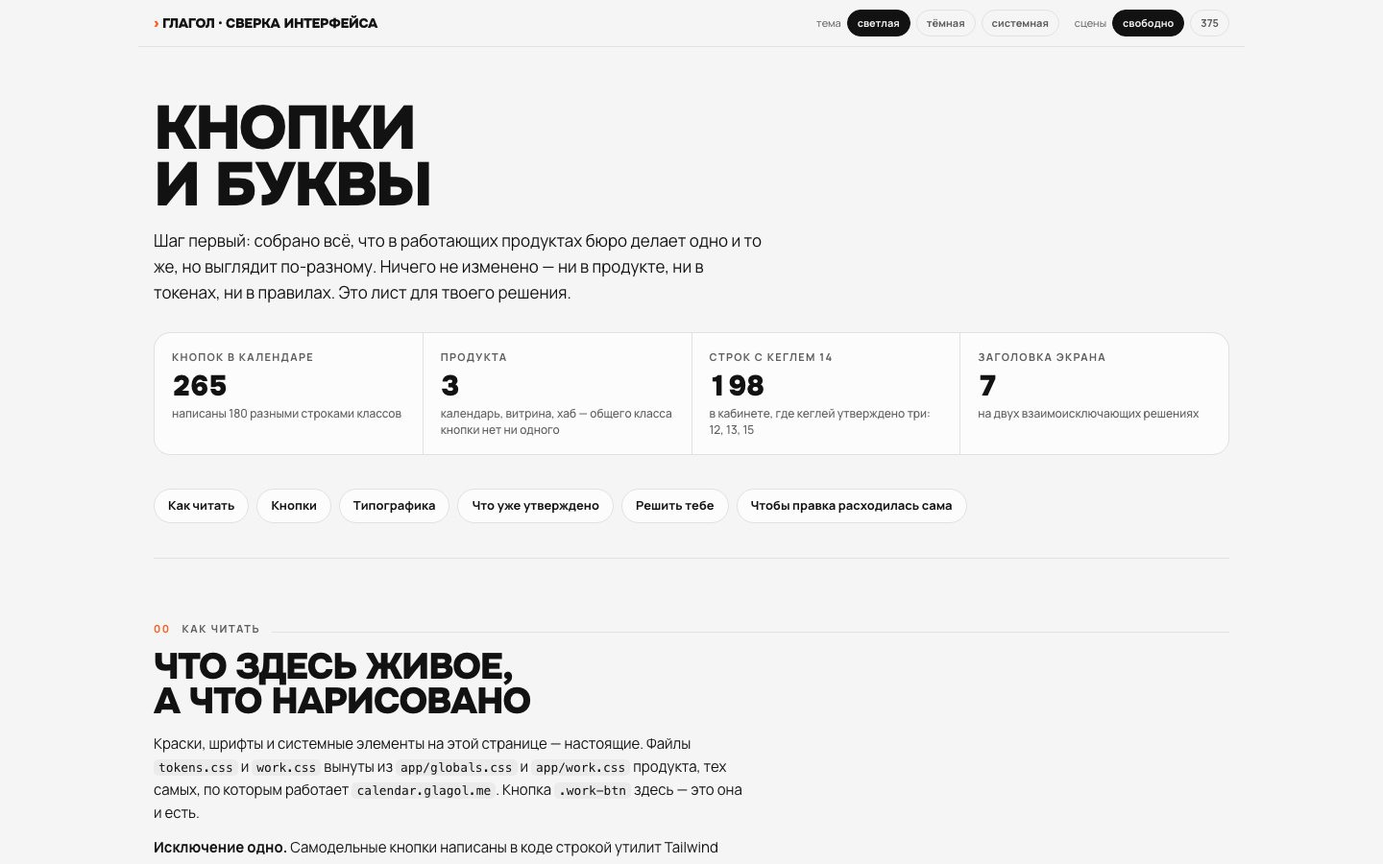
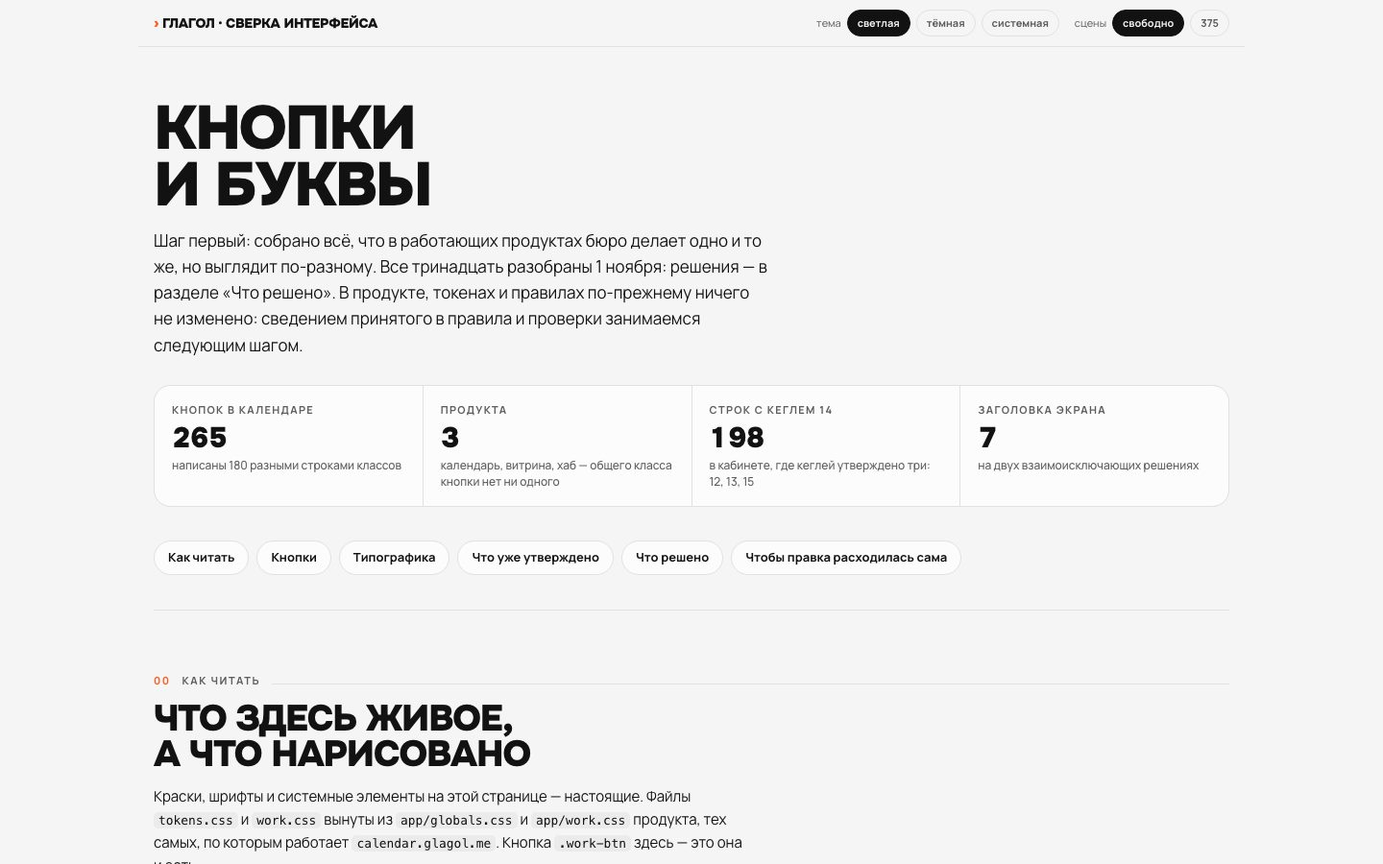
Сверка: решения сведены в раздел «Что решено»
Все тринадцать расхождений закрыты за один день. Метки на карточках
сменились на «решено», раздел «Решить тебе» заменён таблицей решений с
ценой каждого, оглавление и лид поправлены.

Отдельными врезками то, что нашлось по ходу и важнее части решений: поле
ввода меньше 16 зумит айфон (32 таких поля в календаре), и два случая,
когда витрина показала то, чего в продукте нет.

В проверках съёмки ссылка внутри абзаца выведена из правила 44 — нарастить
её можно только разогнав строки текста, и то же говорит WCAG 2.5.8.
Исключение именно для ссылки в абзаце: кнопка в абзаце исключением не
станет.

diff --git a/review/index.html b/review/index.html
@@ -27,8 +27,9 @@
 <header class="св-шапка">
   <h1>Кнопки<br>и буквы</h1>
   <p class="лид">Шаг первый: собрано всё, что в работающих продуктах бюро делает
-    одно и то же, но выглядит по-разному. Ничего не изменено — ни в продукте,
-    ни в токенах, ни в правилах. Это лист для твоего решения.</p>
+    одно и то же, но выглядит по-разному. Все тринадцать разобраны 1 ноября: решения — в разделе «Что решено».
+    В продукте, токенах и правилах по-прежнему ничего не изменено: сведением
+    принятого в правила и проверки занимаемся следующим шагом.</p>
 
   <dl class="счёт">
     <div>
@@ -58,7 +59,7 @@
     <a href="#кнопки">Кнопки</a>
     <a href="#типографика">Типографика</a>
     <a href="#утверждено">Что уже утверждено</a>
-    <a href="#вопросы">Решить тебе</a>
+    <a href="#решения">Что решено</a>
     <a href="#архитектура">Чтобы правка расходилась сама</a>
   </nav>
 </header>
@@ -82,13 +83,19 @@
     <code>font-semibold</code>&nbsp;→&nbsp;600. Токены те же. Под каждым таким
     образцом стоит ссылка на файл и строку — проверяется глазами за минуту.</p>
 
-  <p>У карточки четыре вида метки. <span class="метка" data-м="утверждено">утверждено</span>
+  <p><b>Все тринадцать расхождений разобраны 1 ноября 2026 года.</b> Карточки
+    ниже показывают, что нашлось в коде; принятое решение по каждой стоит в
+    разделе <a href="#решения">«Что решено»</a> и подробно, с причинами, — в
+    <code>review/РЕШЕНИЯ.md</code>. Метка <span class="метка" data-м="решено">решено</span>
+    на карточке означает, что ответ есть.</p>
+
+  <p>Виды меток, которые стояли до разбора. <span class="метка" data-м="утверждено">утверждено</span>
     — решение принято раньше, с причиной; трогать нечего.
-    <span class="метка" data-м="предлагаю">предлагаю</span> — расхождение
+    <span class="метка" data-м="решено">решено</span> — расхождение
     есть, но равнозначных ответов нет, и я называю один.
-    <span class="метка" data-м="выбор">нужен твой выбор</span> — ответов
+    <span class="метка" data-м="решено">решено</span> — ответов
     несколько, и они не равны по вкусу; решаешь ты.
-    <span class="метка" data-м="долг">долг</span> — правило уже записано, а код
+    <span class="метка" data-м="решено">решено · долг</span> — правило уже записано, а код
     ему не следует.</p>
 </section>
 
@@ -116,7 +123,7 @@
     <div class="р-верх">
       <span class="р-номер">А1</span>
       <h3>Главное действие экрана</h3>
-      <span class="метка" data-м="выбор">нужен твой выбор</span>
+      <span class="метка" data-м="решено">решено</span>
     </div>
     <p class="р-суть">Самое дорогое расхождение. В своде записано, что главную
       кнопку отличает фирменный оранжевый. В коде оранжевая
@@ -278,7 +285,7 @@
     <div class="р-верх">
       <span class="р-номер">А3</span>
       <h3>Круглая кнопка-иконка</h3>
-      <span class="метка" data-м="предлагаю">предлагаю</span>
+      <span class="метка" data-м="решено">решено</span>
     </div>
     <p class="р-суть">Закрыть, развернуть, листать, править. 55 штук в
       календаре, системного класса нет ни одного. Шесть ростов, четыре разных
@@ -379,7 +386,7 @@
     <div class="р-верх">
       <span class="р-номер">А4</span>
       <h3>Отбор и состояние</h3>
-      <span class="метка" data-м="предлагаю">предлагаю</span>
+      <span class="метка" data-м="решено">решено</span>
     </div>
     <p class="р-суть">Чип работает двумя способами: как ярлык состояния
       («Сбор обратной связи», «Всё ок») и как переключатель отбора («Все спикеры
@@ -432,7 +439,7 @@
     <div class="р-верх">
       <span class="р-номер">А5</span>
       <h3>Ссылка, которая ведёт себя как кнопка</h3>
-      <span class="метка" data-м="предлагаю">предлагаю</span>
+      <span class="метка" data-м="решено">решено</span>
     </div>
     <p class="р-суть">Восемь написаний на одно действие. Разница — в
       подчёркивании, отступе под ним и в том, появляется ли подчёркивание
@@ -487,7 +494,7 @@
     <div class="р-верх">
       <span class="р-номер">А6</span>
       <h3>Отклик на нажатие</h3>
-      <span class="метка" data-м="предлагаю">предлагаю</span>
+      <span class="метка" data-м="решено">решено</span>
     </div>
     <p class="р-суть">Четыре значения сжатия и 107 самодельных кнопок вообще без отклика.
       Разницу между 0,95 и 0,96 человек не видит, а вот между «отвечает» и
@@ -530,7 +537,7 @@
     <div class="р-верх">
       <span class="р-номер">А7</span>
       <h3>Область касания на телефоне</h3>
-      <span class="метка" data-м="долг">долг</span>
+      <span class="метка" data-м="решено">решено · долг</span>
     </div>
     <p class="р-суть">Правило записано: на телефоне всё нажимаемое — минимум
       44&nbsp;×&nbsp;44. Код ему не следует: <code>.work-btn</code> остаётся 36
@@ -600,7 +607,7 @@
     <div class="р-верх">
       <span class="р-номер">Б1</span>
       <h3>Заголовок экрана</h3>
-      <span class="метка" data-м="выбор">нужен твой выбор</span>
+      <span class="метка" data-м="решено">решено</span>
     </div>
     <p class="р-суть">Семь экранов кабинета, два взаимоисключающих решения.
       Три экрана носят плакат — его ты видишь на снимке как «ЛОГ ВРЕМЕНИ».
@@ -666,7 +673,7 @@
     <div class="р-верх">
       <span class="р-номер">Б2</span>
       <h3>Заголовок раздела внутри экрана</h3>
-      <span class="метка" data-м="предлагаю">предлагаю</span>
+      <span class="метка" data-м="решено">решено</span>
     </div>
     <p class="р-суть">Карточка выступления собрана безупречно: разделы
       «ВСТРЕЧИ», «ОБРАТНАЯ СВЯЗЬ», «СТОИМОСТЬ» — один класс, один кегль,
@@ -729,7 +736,7 @@
     <div class="р-верх">
       <span class="р-номер">Б3</span>
       <h3>Подпись-ярлык</h3>
-      <span class="метка" data-м="предлагаю">предлагаю</span>
+      <span class="метка" data-м="решено">решено</span>
     </div>
     <p class="р-суть">«ТЕЛЕГРАМ», «МЕРОПРИЯТИЕ», «КТО ПЛАТИТ» — две системы в
       одном продукте, и отличаются они разрядкой: 0,14&nbsp;em против 0,025. На
@@ -780,7 +787,7 @@
     <div class="р-верх">
       <span class="р-номер">Б4</span>
       <h3>Лестница кеглей</h3>
-      <span class="метка" data-м="выбор">нужен твой выбор</span>
+      <span class="метка" data-м="решено">решено</span>
     </div>
     <p class="р-суть">Главный корень всей правки. Пока размер пишется числом на
       экране, «сделать текст на полпункта крупнее» — это 198 правок вручную.
@@ -969,69 +976,82 @@
 
 <!-- ─── ВОПРОСЫ ──────────────────────────────────────────────── -->
 
-<section class="раздел" id="вопросы">
-  <div class="черта"><b>Г</b> Решить тебе</div>
-  <h2>Четыре вопроса,<br>остальное беру на себя</h2>
+<section class="раздел" id="решения">
+  <div class="черта"><b>Г</b> Что решено</div>
+  <h2>Тринадцать ответов,<br>один рабочий день</h2>
 
-  <p>Всё прочее на этой странице я готов собрать без тебя: там расхождения, у
-    которых нет равнозначных ответов. Эти четыре — про вкус и про облик, и
-    ответ на них меняет то, как продукт выглядит.</p>
+  <p>Разобрано 1 ноября 2026 года, по одному расхождению за раз, глядя на
+    настоящие элементы в обеих темах. Девять решений принял Артём, четыре —
+    я, там где равнозначных ответов не было. Причина каждого записана в
+    <code>review/РЕШЕНИЯ.md</code> — вместе с отвергнутыми вариантами:
+    решение без причины через неделю выглядит придиркой.</p>
 
-  <div class="вопрос">
-    <h3>1. Главное действие — чёрное или оранжевое?</h3>
-    <p>Сегодня в кабинете чёрное, в публичных экранах оранжевое, а в своде
-      написано, что главное — оранжевое. Врёт что-то одно.</p>
-    <ol>
-      <li><b>Чёрное главное, оранжевый — краска внимания.</b> Меняются имена
-        классов и шесть публичных кнопок. Кабинет не трогаем. <i>Моё
-        предложение.</i></li>
-      <li><b>Оранжевое главное везде.</b> Меняются 32 места в кабинете; экраны
-        станут заметно ярче. Это уже смена облика, а не уборка.</li>
-      <li><b>Оранжевая — последняя кнопка сценария</b> («Записаться»,
-        «Отправить бриф»), чёрная — везде ещё. Правило тонкое, его придётся
-        объяснять каждому новому экрану.</li>
-    </ol>
+  <div class="обёртка-таблицы">
+    <table class="св-таблица">
+      <thead><tr><th>Что</th><th>Решено</th><th>Чем платим</th></tr></thead>
+      <tbody>
+        <tr><td>А1 · Главное действие</td>
+          <td>Чёрная капсула, 36 / 44 на телефоне, кегль 15, вес 600. 48 — только у кнопки, одной на весь экран.</td>
+          <td>Оранжевый перестаёт быть кнопкой и остаётся краской внимания. Шесть публичных мест меняются.</td></tr>
+        <tr><td>А2 · Второе, мягкое, тихое</td>
+          <td>Без изменений. Мелкие кнопки остаются на 13/700.</td>
+          <td>—</td></tr>
+        <tr><td>А3 · Круглая кнопка</td>
+          <td>Все 36, просвет 8 — шаг касания ровно 44. 28 только внутри плотной строки.</td>
+          <td>Шесть ростов сводятся к двум; 55 кнопок переписываются.</td></tr>
+        <tr><td>А3 · Правка поля</td>
+          <td>Управление «✎ Править» у правого края заголовка раздела, видно всегда. Раздел целиком становится полями на месте.</td>
+          <td>90 px в иначе пустой строке. Обе пилюли «Изменить» уходят.</td></tr>
+        <tr><td>А4 · Отбор и состояние</td>
+          <td>Чип — только ярлык состояния. Отбор становится кнопкой.</td>
+          <td>Четыре места переписываются.</td></tr>
+        <tr><td>А5 · Ссылка-кнопка</td>
+          <td>Подчёркнута всегда, отступ 4, цвет обычного текста.</td>
+          <td>Восемь написаний сводятся к одному.</td></tr>
+        <tr><td>А6 · Отклик на нажатие</td>
+          <td>0,96 у всего. Исключение одно: плитка-строка со своими кнопками внутри не сжимается.</td>
+          <td>107 кнопок получают отклик, которого не было.</td></tr>
+        <tr><td>А7 · Область касания</td>
+          <td>44 на телефоне у всего нажимаемого, одним правилом под 1024.</td>
+          <td>Долг, а не выбор: правило было записано и не соблюдалось.</td></tr>
+        <tr><td>Б1 · Заголовок экрана</td>
+          <td>Плакат там, где в заголовке имя предмета или раздел из колонки слева. Строчка в липкой шапке — в служебных разделах. Подпись необязательна.</td>
+          <td>Четыре экрана переезжают на липкую шапку с возвратом — приём новый, держать придётся везде.</td></tr>
+        <tr><td>Б2 · Заголовок раздела</td>
+          <td><code>.work-title</code> 18, прописные.</td>
+          <td>Двадцать пять самодельных мест сводятся к одному классу.</td></tr>
+        <tr><td>Б3 · Подпись-ярлык</td>
+          <td><code>.work-label</code> везде, включая шапки таблиц.</td>
+          <td>Тринадцать мест переписываются.</td></tr>
+        <tr><td>Б4 · Лестница кеглей</td>
+          <td>12 подпись · 13 служебное и мелкие кнопки · 15 основной текст и кнопки · 18 раздел · 30 плакат. Поле ввода — 16.</td>
+          <td>198 строк с кеглем 14 чинятся постепенно, по мере работы над разделами.</td></tr>
+        <tr><td>Б5 · Числа</td>
+          <td><code>.work-num</code> как есть, плюс строчный размер того же класса.</td>
+          <td>Два места перестают писать своё.</td></tr>
+      </tbody>
+    </table>
   </div>
 
   <div class="вопрос">
-    <h3>2. Плакат на телефоне — оставить, спрятать или по типу экрана?</h3>
-    <p>Заголовок-плакат съедает 60–70&nbsp;px из 812. Он же — главный приём, по
-      которому рабочую среду узнают.</p>
-    <ol>
-      <li><b>Оставить, уменьшив до 30.</b> Узнаваемость дороже экрана.
-        <i>Моё предложение.</i></li>
-      <li><b>Уводить в шапку строкой при прокрутке.</b> Красиво, но это новый
-        приём, которого в продукте нет, — и его придётся держать на всех
-        экранах.</li>
-      <li><b>Плакат только там, где экран начинается с цифр.</b> Лог и
-        аналитика — плакат, списки — строчка.</li>
-    </ol>
+    <h3>Поле ввода — 16, и это не вкус</h3>
+    <p>iOS Safari зумит страницу, когда наводишься на поле с вычисленным кеглем
+      меньше 16, и обратно не отзумливает. В календаре <b>32 поля</b> с кеглем
+      явно меньше 16 и ещё 65 наследуют от родителя, а в кабинете это 14–15.
+      Значит, на айфоне экран дёргается почти на каждом поле. На живом
+      устройстве не проверено — проверяется одной минутой.</p>
   </div>
 
   <div class="вопрос">
-    <h3>3. Основной текст кабинета — 14 или 15?</h3>
-    <p>Записано 15, в коде победило 14 (198 строк против 24).</p>
-    <ol>
-      <li><b>15, чиним постепенно.</b> Спокойнее, читается лучше, меньше влезает
-        в строку таблицы. <i>Моё предложение.</i></li>
-      <li><b>14, узакониваем сложившееся.</b> Плотнее, больше данных на экран,
-        править почти нечего — но тогда признаём, что записанное правило
-        проиграло коду, и это прецедент.</li>
-    </ol>
-  </div>
-
-  <div class="вопрос">
-    <h3>4. Куда это внедряем первым?</h3>
-    <p>Единый стандарт можно вводить по-разному, и это решение про риск.</p>
-    <ol>
-      <li><b>Сначала кабинет</b> (<code>/app</code>, <code>/log</code>,
-        карточка выступления): там 65 системных кнопок, правка расходится сама,
-        а видишь результат ты первым. <i>Моё предложение.</i></li>
-      <li><b>Сначала публичные экраны</b> — их видят клиенты, но там всё
-        самодельное, и это ручная работа без рычага.</li>
-      <li><b>Только «Глагол 2.0», продукты не трогаем.</b> Безопаснее всего, но
-        расхождение между продуктами останется и будет расти.</li>
-    </ol>
+    <h3>Что эта страница сама о себе соврала</h3>
+    <p>Дважды за разбор витрина показала то, чего в продукте нет. Сначала
+      браузерную рамку <code>2px outset</code> у <code>.work-btn</code> —
+      Tailwind сбрасывает её в продукте, а на статической странице сброса не
+      было, и по этой несуществующей обводке был выбран вариант главного
+      действия. Потом синее кольцо наводки у поля. Оба случая починены, и оба
+      стоят отдельной строкой в проверках: <b>страница сверки не имеет права
+      показывать то, чего нет в продукте</b> — иначе решение принимает она, а
+      не человек.</p>
   </div>
 </section>
 

diff --git a/review/review.css b/review/review.css
@@ -307,6 +307,10 @@ button {
   background: color-mix(in oklab, var(--foreground) 10%, var(--card));
   color: var(--foreground);
 }
+.метка[data-м="решено"] {
+  background: var(--foreground);
+  color: var(--background);
+}
 .метка[data-м="утверждено"] {
   background: color-mix(in oklab, var(--lime, #c2d86b) 40%, var(--card));
   color: var(--foreground);

diff --git a/review/РЕШЕНИЯ.md b/review/РЕШЕНИЯ.md
@@ -347,3 +347,60 @@ Lab собирает токены из файлов продукта, а не к
 глазами: это «ВСТРЕЧИ», «ОБРАТНАЯ СВЯЗЬ» и «СТОИМОСТЬ» на снимках Артёма.
 
 Было: 1 класс против 25 самодельных мест.
+
+---
+
+## Б3 · Подпись-ярлык — 01.11.2026
+
+**Решено: `.work-label` везде, включая шапки таблиц.** 67 мест против 13
+самодельных. Отличаются они разрядкой — 0,14 em против 0,025, — и на глаз это
+разница между «подписью» и «просто мелким текстом».
+
+## А4 · Отбор и состояние — 01.11.2026
+
+**Решено: развести по смыслу, а не по виду.** `.work-chip` остаётся ярлыком
+состояния: не нажимается, цвет кодирует этап (солнечный — идёт, лаймовый —
+закрыто, кирпичный — беда). Отбор («Все спикеры 72») становится кнопкой
+`.work-btn`, потому что он и есть кнопка.
+
+Сегодня они различаются только тем, что одно написано классом, а другое
+строкой утилит с теми же мерками, — а это не различие.
+
+## А5 · Ссылка-кнопка — 01.11.2026
+
+**Решено: подчёркнута всегда, отступ подчёркивания 4, цвет обычного текста.**
+Самое частое из восьми написаний — 20 мест.
+
+Вариант «подчёркивается под мышью» выбывает не по вкусу, а по правилу: на
+телефоне наведения нет, и ссылка становится неотличима от текста.
+
+## А6 · Отклик на нажатие — 01.11.2026
+
+**Решено: одно значение — 0,96**, то, что уже стоит в `work.css`. Было четыре
+значения сжатия и 107 самодельных кнопок вообще без отклика.
+
+Исключение остаётся одно и с причиной: **плитка-строка со своими кнопками
+внутри не сжимается никогда.** `:active` достаётся и предкам, а предок с
+`transform` забирает себе всё абсолютное и всё `fixed` внутри — меню выпадашки
+запиралось среди соседних строк, окно согласия открывалось внутри строки, и
+выбор в списке не срабатывал вовсе (16.08.26).
+
+## Б5 · Числа — 01.11.2026
+
+**Решено: `.work-num` остаётся как есть, добавляется второй, строчный размер
+того же класса.** Расхождений всего два, и оба — строчные числа, написанные
+мимо класса. Моноширинные цифры обязательны: иначе счётчик дёргается при
+каждом обновлении.
+
+---
+
+## Итог первого шага
+
+Тринадцать расхождений разобрано. Девять решений приняты Артёмом, четыре —
+мои, все записаны выше с причинами.
+
+**Чего это не значит.** Ни одно из решений пока не внесено ни в
+`app/work.css`, ни в `app/globals.css`, ни в документы системы, ни в
+проверки. Версия не поднята, продукт не тронут. Следующий шаг — свести
+принятое в правила и защитить проверками, чтобы правка расходилась сама, а
+не держалась на памяти.
